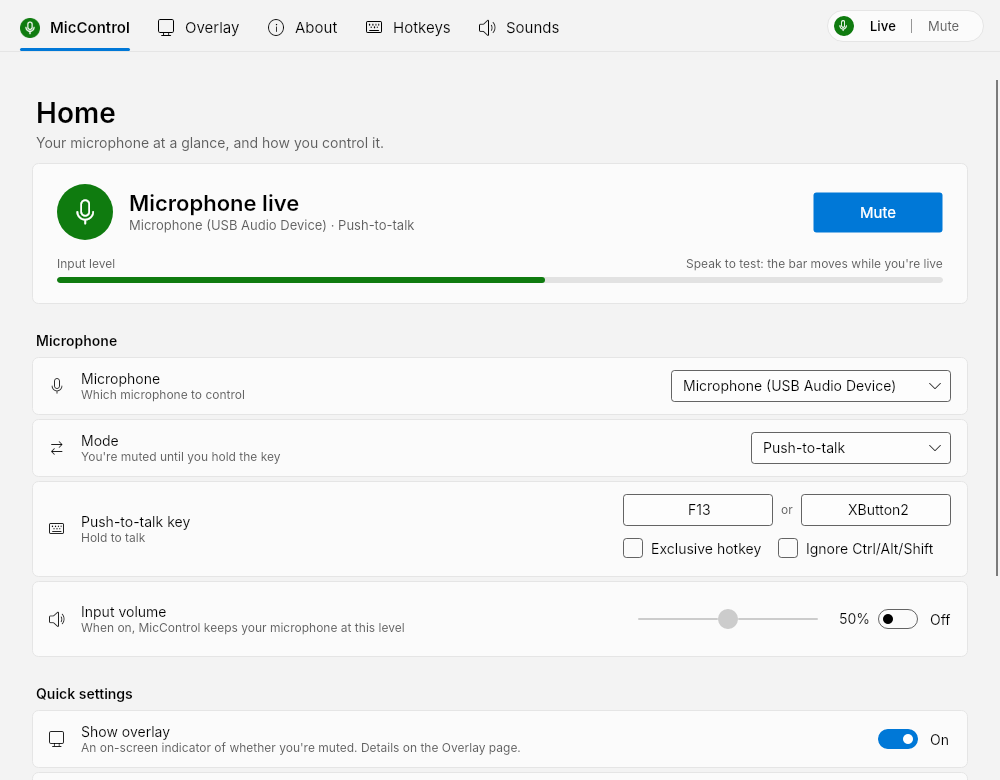
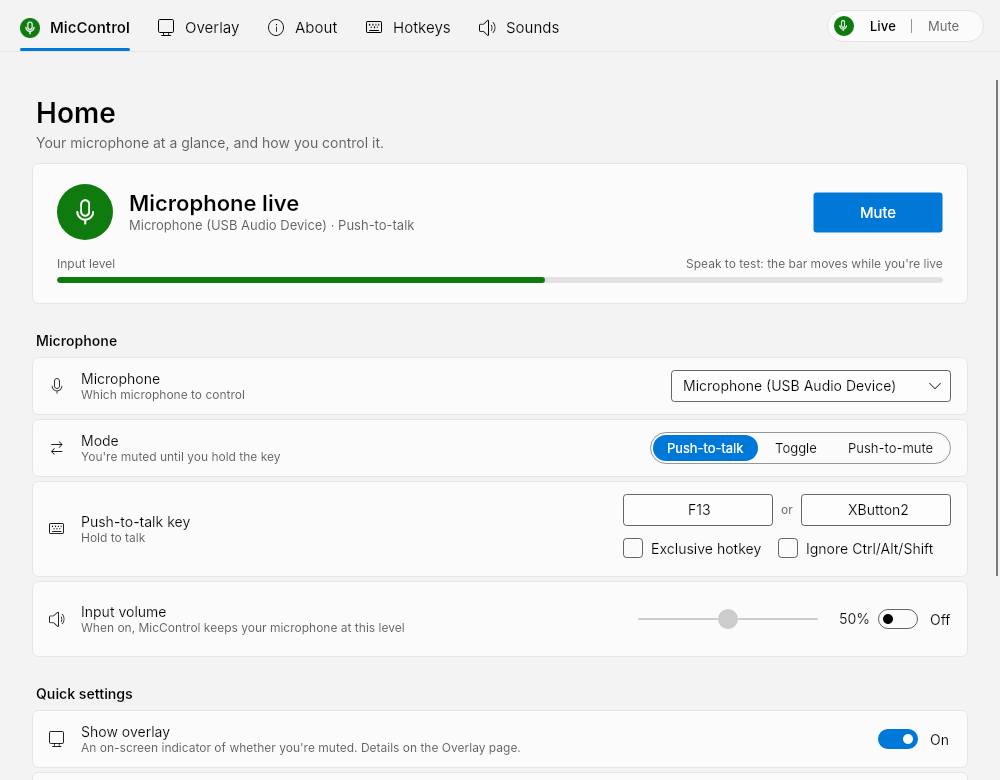
Mode becomes a segmented pill like Theme
- Home's Mode is a Push-to-talk | Toggle | Push-to-mute pill instead of a dropdown; the row's description still explains the chosen mode
- Home's pills use their own radio group names: setup's mode options in the same window shared "mode" and unchecked them
- A window test checks the current mode and theme are the checked segments (it fails with the shared group name)

Changed region(s): [[0.651, 0.5538, 0.961, 0.6154]]

diff --git a/Sources/MicControl.UI/ViewModels/MainViewModel.cs b/Sources/MicControl.UI/ViewModels/MainViewModel.cs
@@ -286,7 +286,9 @@ public sealed partial class MainViewModel : ObservableObject, IDisposable
                 return;
             }
 
+            OnPropertyChanged(nameof(IsPushToTalkMode));
             OnPropertyChanged(nameof(IsToggleMode));
+            OnPropertyChanged(nameof(IsPushToMuteMode));
             OnPropertyChanged(nameof(MicrophoneStatusDetail));
             OnPropertyChanged(nameof(MainHotkeyLabel));
             OnPropertyChanged(nameof(MainHotkeyDescription));
@@ -307,7 +309,32 @@ public sealed partial class MainViewModel : ObservableObject, IDisposable
 
     public string ModeDescription => MuteModes.First(m => Equals(m.Value, MuteMode)).Description ?? string.Empty;
 
-    public bool IsToggleMode => MuteMode == MuteMode.ToggleMute;
+    // Home's segmented Mode control (like Theme): choosing one sets MuteMode; unchecking is ignored.
+    public bool IsPushToTalkMode
+    {
+        get => MuteMode == MuteMode.PushToTalk;
+        set => SelectMode(value, MuteMode.PushToTalk);
+    }
+
+    public bool IsToggleMode
+    {
+        get => MuteMode == MuteMode.ToggleMute;
+        set => SelectMode(value, MuteMode.ToggleMute);
+    }
+
+    public bool IsPushToMuteMode
+    {
+        get => MuteMode == MuteMode.PushToMute;
+        set => SelectMode(value, MuteMode.PushToMute);
+    }
+
+    private void SelectMode(bool selected, MuteMode mode)
+    {
+        if (selected)
+        {
+            MuteMode = mode;
+        }
+    }
 
     public HotkeyEditorViewModel MainHotkey { get; }
 

diff --git a/Sources/MicControl.Tests/Ui/MainViewModelTests.cs b/Sources/MicControl.Tests/Ui/MainViewModelTests.cs
@@ -434,4 +434,23 @@ public sealed class MainViewModelTests
         vm.IsSystemTheme = true;
         Assert.Equal(AppTheme.System, vm.Settings.Window.Theme);
     }
+
+    [AvaloniaFact]
+    public void ModeSegments_PickOneMode_AndIgnoreUnchecking()
+    {
+        using var harness = new TestHarness();
+        var vm = harness.ViewModel;
+        Assert.True(vm.IsPushToTalkMode);
+
+        vm.IsPushToMuteMode = true;
+        Assert.Equal(MuteMode.PushToMute, vm.Settings.Microphone.MuteMode);
+        Assert.Equal((false, false, true), (vm.IsPushToTalkMode, vm.IsToggleMode, vm.IsPushToMuteMode));
+
+        vm.IsPushToTalkMode = false; // unchecked as another one is picked: no change
+        Assert.Equal(MuteMode.PushToMute, vm.Settings.Microphone.MuteMode);
+
+        vm.IsToggleMode = true;
+        Assert.Equal(MuteMode.ToggleMute, vm.Settings.Microphone.MuteMode);
+        Assert.Contains("switch between muted and live", vm.MainHotkeyDescription, StringComparison.Ordinal);
+    }
 }

diff --git a/Sources/MicControl.Tests/Ui/MainWindowTests.cs b/Sources/MicControl.Tests/Ui/MainWindowTests.cs
@@ -256,4 +256,22 @@ public sealed class MainWindowTests
 
         Assert.Equal(before, after);
     }
+
+    [AvaloniaFact]
+    public void HomeSegments_ShowTheCurrentModeAndTheme()
+    {
+        // Setup's mode radio buttons live in the same window; a shared group name made them uncheck Home's.
+        using var harness = new TestHarness();
+        var window = new MainWindow(harness.ViewModel, harness.Settings);
+        window.Show();
+
+        string[] Checked() => window.GetVisualDescendants().OfType<RadioButton>()
+            .Where(r => r.Classes.Contains("segment") && r.IsChecked == true).Select(r => (string)r.Content!).ToArray();
+
+        Assert.Equal(["Push-to-talk", "System"], Checked());
+        harness.ViewModel.MuteMode = MuteMode.ToggleMute;
+        harness.ViewModel.Theme = AppTheme.Dark;
+        Assert.Equal(["Toggle", "Dark"], Checked());
+        harness.ViewModel.Theme = AppTheme.System;
+    }
 }

diff --git a/CLAUDE.md b/CLAUDE.md
@@ -66,7 +66,7 @@ System-wide microphone mute/unmute with hotkeys, an always-on-top overlay, sound
 - Custom hotkeys are a dynamic list of key → action rows; the action list hides whatever the main key already does in the current mode.
 - Overlay is a translucent Discord inspired badge, positioned by corner presets or "Edit position" (drag); click-through otherwise. "Show overlay" is a four-stop slider, Never → When muted → When live → Always (`OverlayVisibilityStep`), not a dropdown.
 - Pages share one top: title, a one-line subtitle (`pageSubtitle`, on every page), then on Home and About the same card (`Border.hero`: 56 px icon, `heroTitle`, `heroDetail`, `heroAction` button). About's icon follows the live/muted state like the rest of the app.
-- Theme is a segmented control (`Border.segmented` + `RadioButton.segment`: System | Light | Dark, bound to `IsSystemTheme`/`IsLightTheme`/`IsDarkTheme`), not a dropdown or slider: the three are peers with no order, unlike Show overlay's scale.
+- Home's Mode (Push-to-talk | Toggle | Push-to-mute, `IsPushToTalkMode`/`IsToggleMode`/`IsPushToMuteMode`) and Theme (System | Light | Dark, `IsSystemTheme`/`IsLightTheme`/`IsDarkTheme`) are segmented controls (`Border.segmented` + `RadioButton.segment`), not dropdowns or sliders: a few peers with no order use the pill; an ordered scale (Show overlay) uses a slider.
 - The once-per-session tray notice (`TrayHintWindow`) says only: right-click the tray icon for quick controls or to exit; click or double-click it to get back to the full window. No mention of hotkeys.
 - The level meter and speaking indicator open the mic (OS "in use" indicator), so the meter only runs while Home/Setup is visible and the speaking indicator is opt-in.
 - App icon: the Home page's status badge, a green (`#0F7B0F`, live) or red (`#C42B1C`, muted, with a slash) circle with a white microphone outline; tray sizes (32 px and below) use a solid capsule so they stay readable. Drawn from simple shapes by `tools/GenerateAppIcons.cs` (`dotnet run tools/GenerateAppIcons.cs` from the repo root; pass a folder to also write a preview sheet), never a font glyph, so it's ours to ship. It writes `MicControl.UI/Assets/microphoneEnabled|Disabled.ico` (16-256 px: window, tray, and the live one is the exe's icon) and `.png` (256 px: sidebar). Change it by editing the generator, never the images. The window and tray use the `.ico` (`MainViewModel.CurrentWindowIcon`) unless the user picked their own overlay icons.
